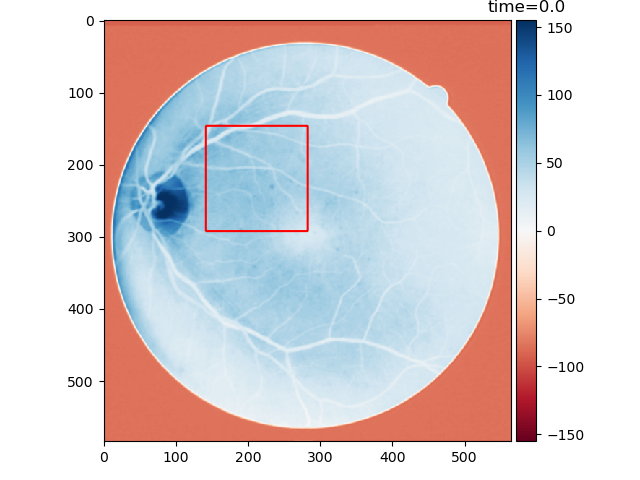
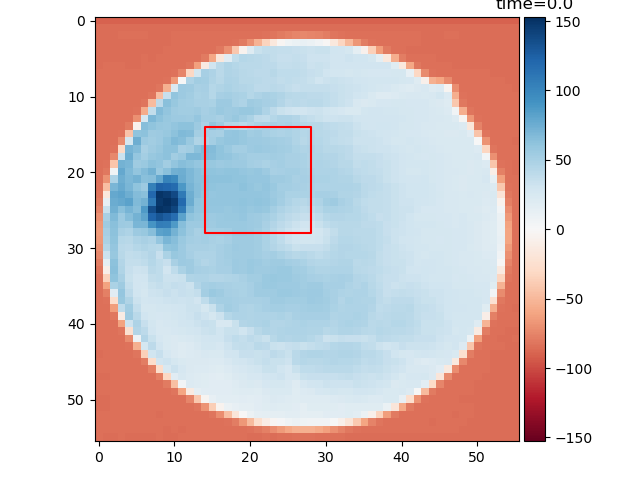
update

diff --git a/exp_implicit.py b/exp_implicit.py
@@ -42,7 +42,7 @@ class DualTimeStepping:
 		self.sudot = 1e-3  # time step for pseudo-time iterations
 		self.gamma = 0.5
 		self.max_pseudo_iter = 2000  # maximum pseudo-time iterations
-		self.pseudo_tol = 1e-4  # convergence tolerance for pseudo-time iterations
+		self.pseudo_tol = 1e-2  # convergence tolerance for pseudo-time iterations
 		self.spatialsch = spatialsch
 		self.initialize()
 		self.F_v = F_v
@@ -74,11 +74,13 @@ class DualTimeStepping:
 		# Simplified and corrected Jacobian approximation
 		# This is a numerical approximation of the derivative of the residual with respect to phi
 		epsilon = 1e-6
+		phi_perturbed = phi.copy()
+		phi_perturbed[i, j] += epsilon
+
+		res1 = self.rhs(phi, i, j)
+		res2 = self.rhs(phi_perturbed, i, j)
 		
-		res1 = self.rhs(phi - epsilon, i, j)
-		res2 = self.rhs(phi + epsilon, i, j)
-		
-		return (res2 - res1) / 2*epsilon	
+		return (res2 - res1) / epsilon	
 
 	def Coe(self, phi_m, i, j):
 		return 1/self.sudot + (1+self.gamma) / self.dt + self.dRdphi(phi_m, i, j) 
@@ -149,11 +151,12 @@ if __name__ == '__main__':
 	img = img - np.mean(img)
 	img = color.rgb2gray(img)
 	img_smooth = scipy.ndimage.filters.gaussian_filter(img, sigma=1)
+	img_smooth = transform.resize(img_smooth, (56, 56))
 
 	F_v = stopping_fun(img_smooth)
 	print(img.shape)
 
-	phi = np.zeros(img.shape)
+	phi = np.zeros(img_smooth.shape)
 	spatialsch = SpatialScheme
-	solver = DualTimeStepping(phi, 0.1, 20000, spatialsch.Upwind, F_v)
+	solver = DualTimeStepping(phi, 0.01, 20000, spatialsch.Upwind, F_v)
 	solver.solve()
